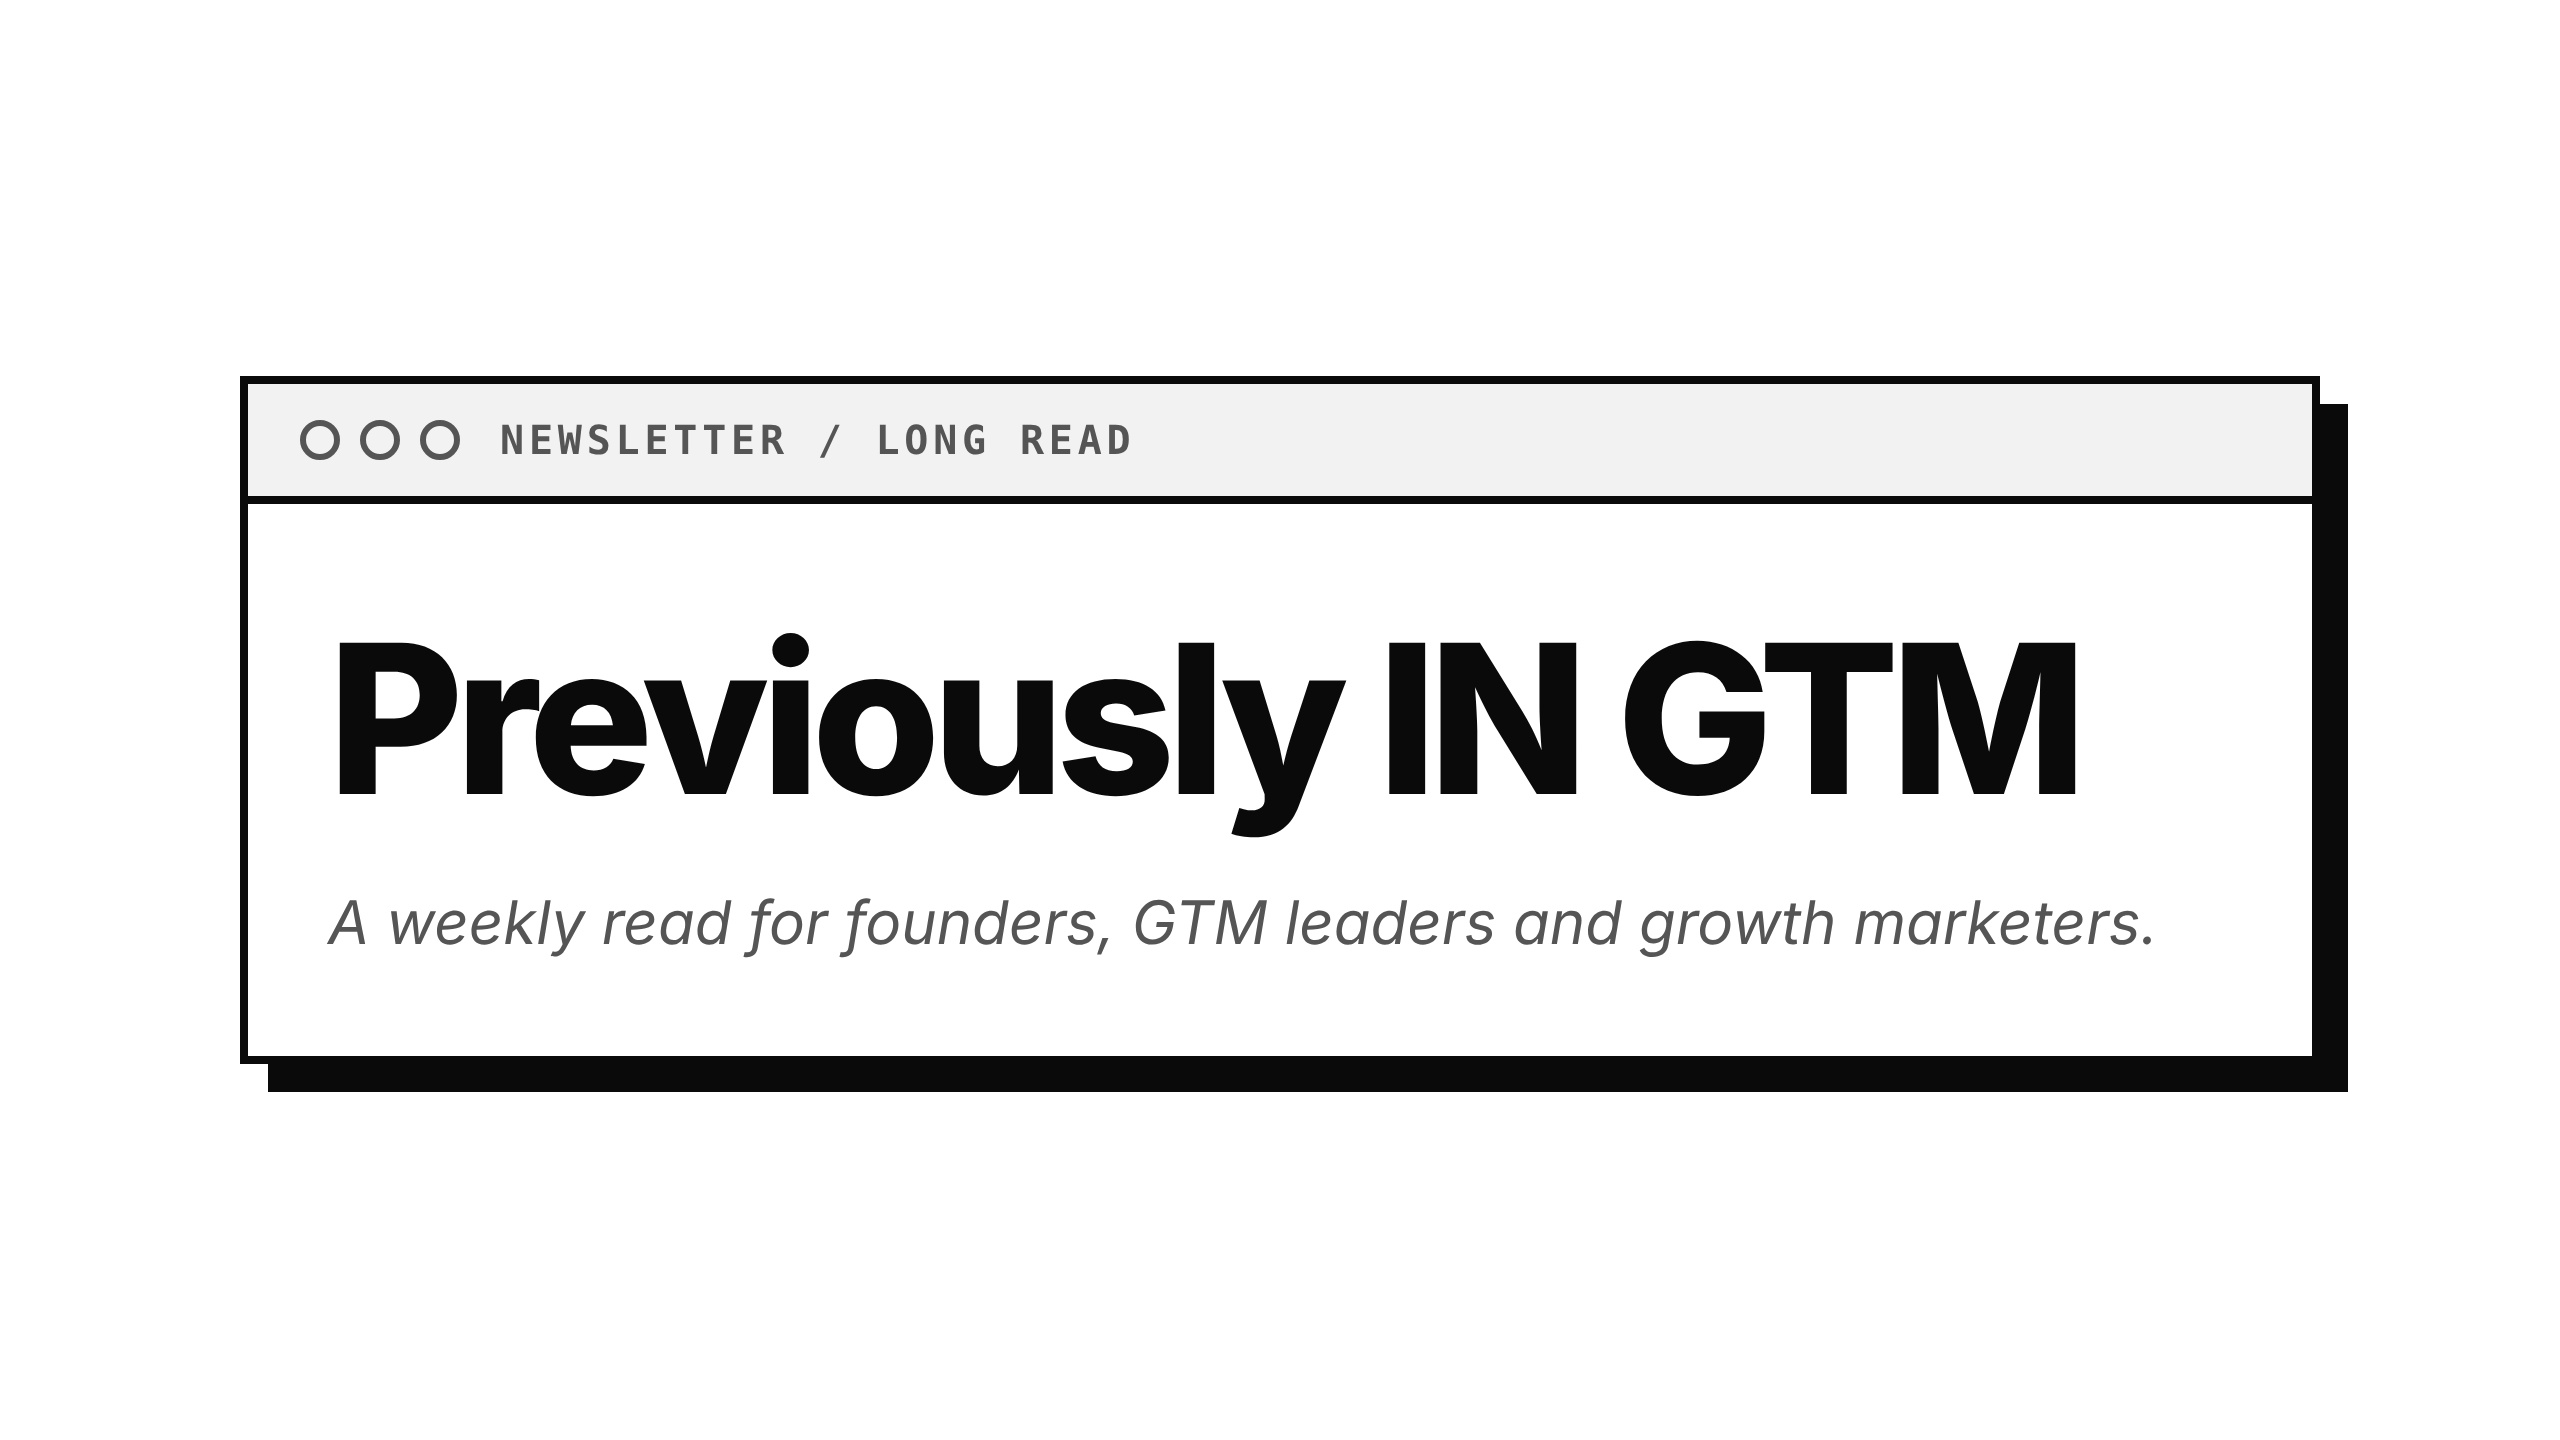
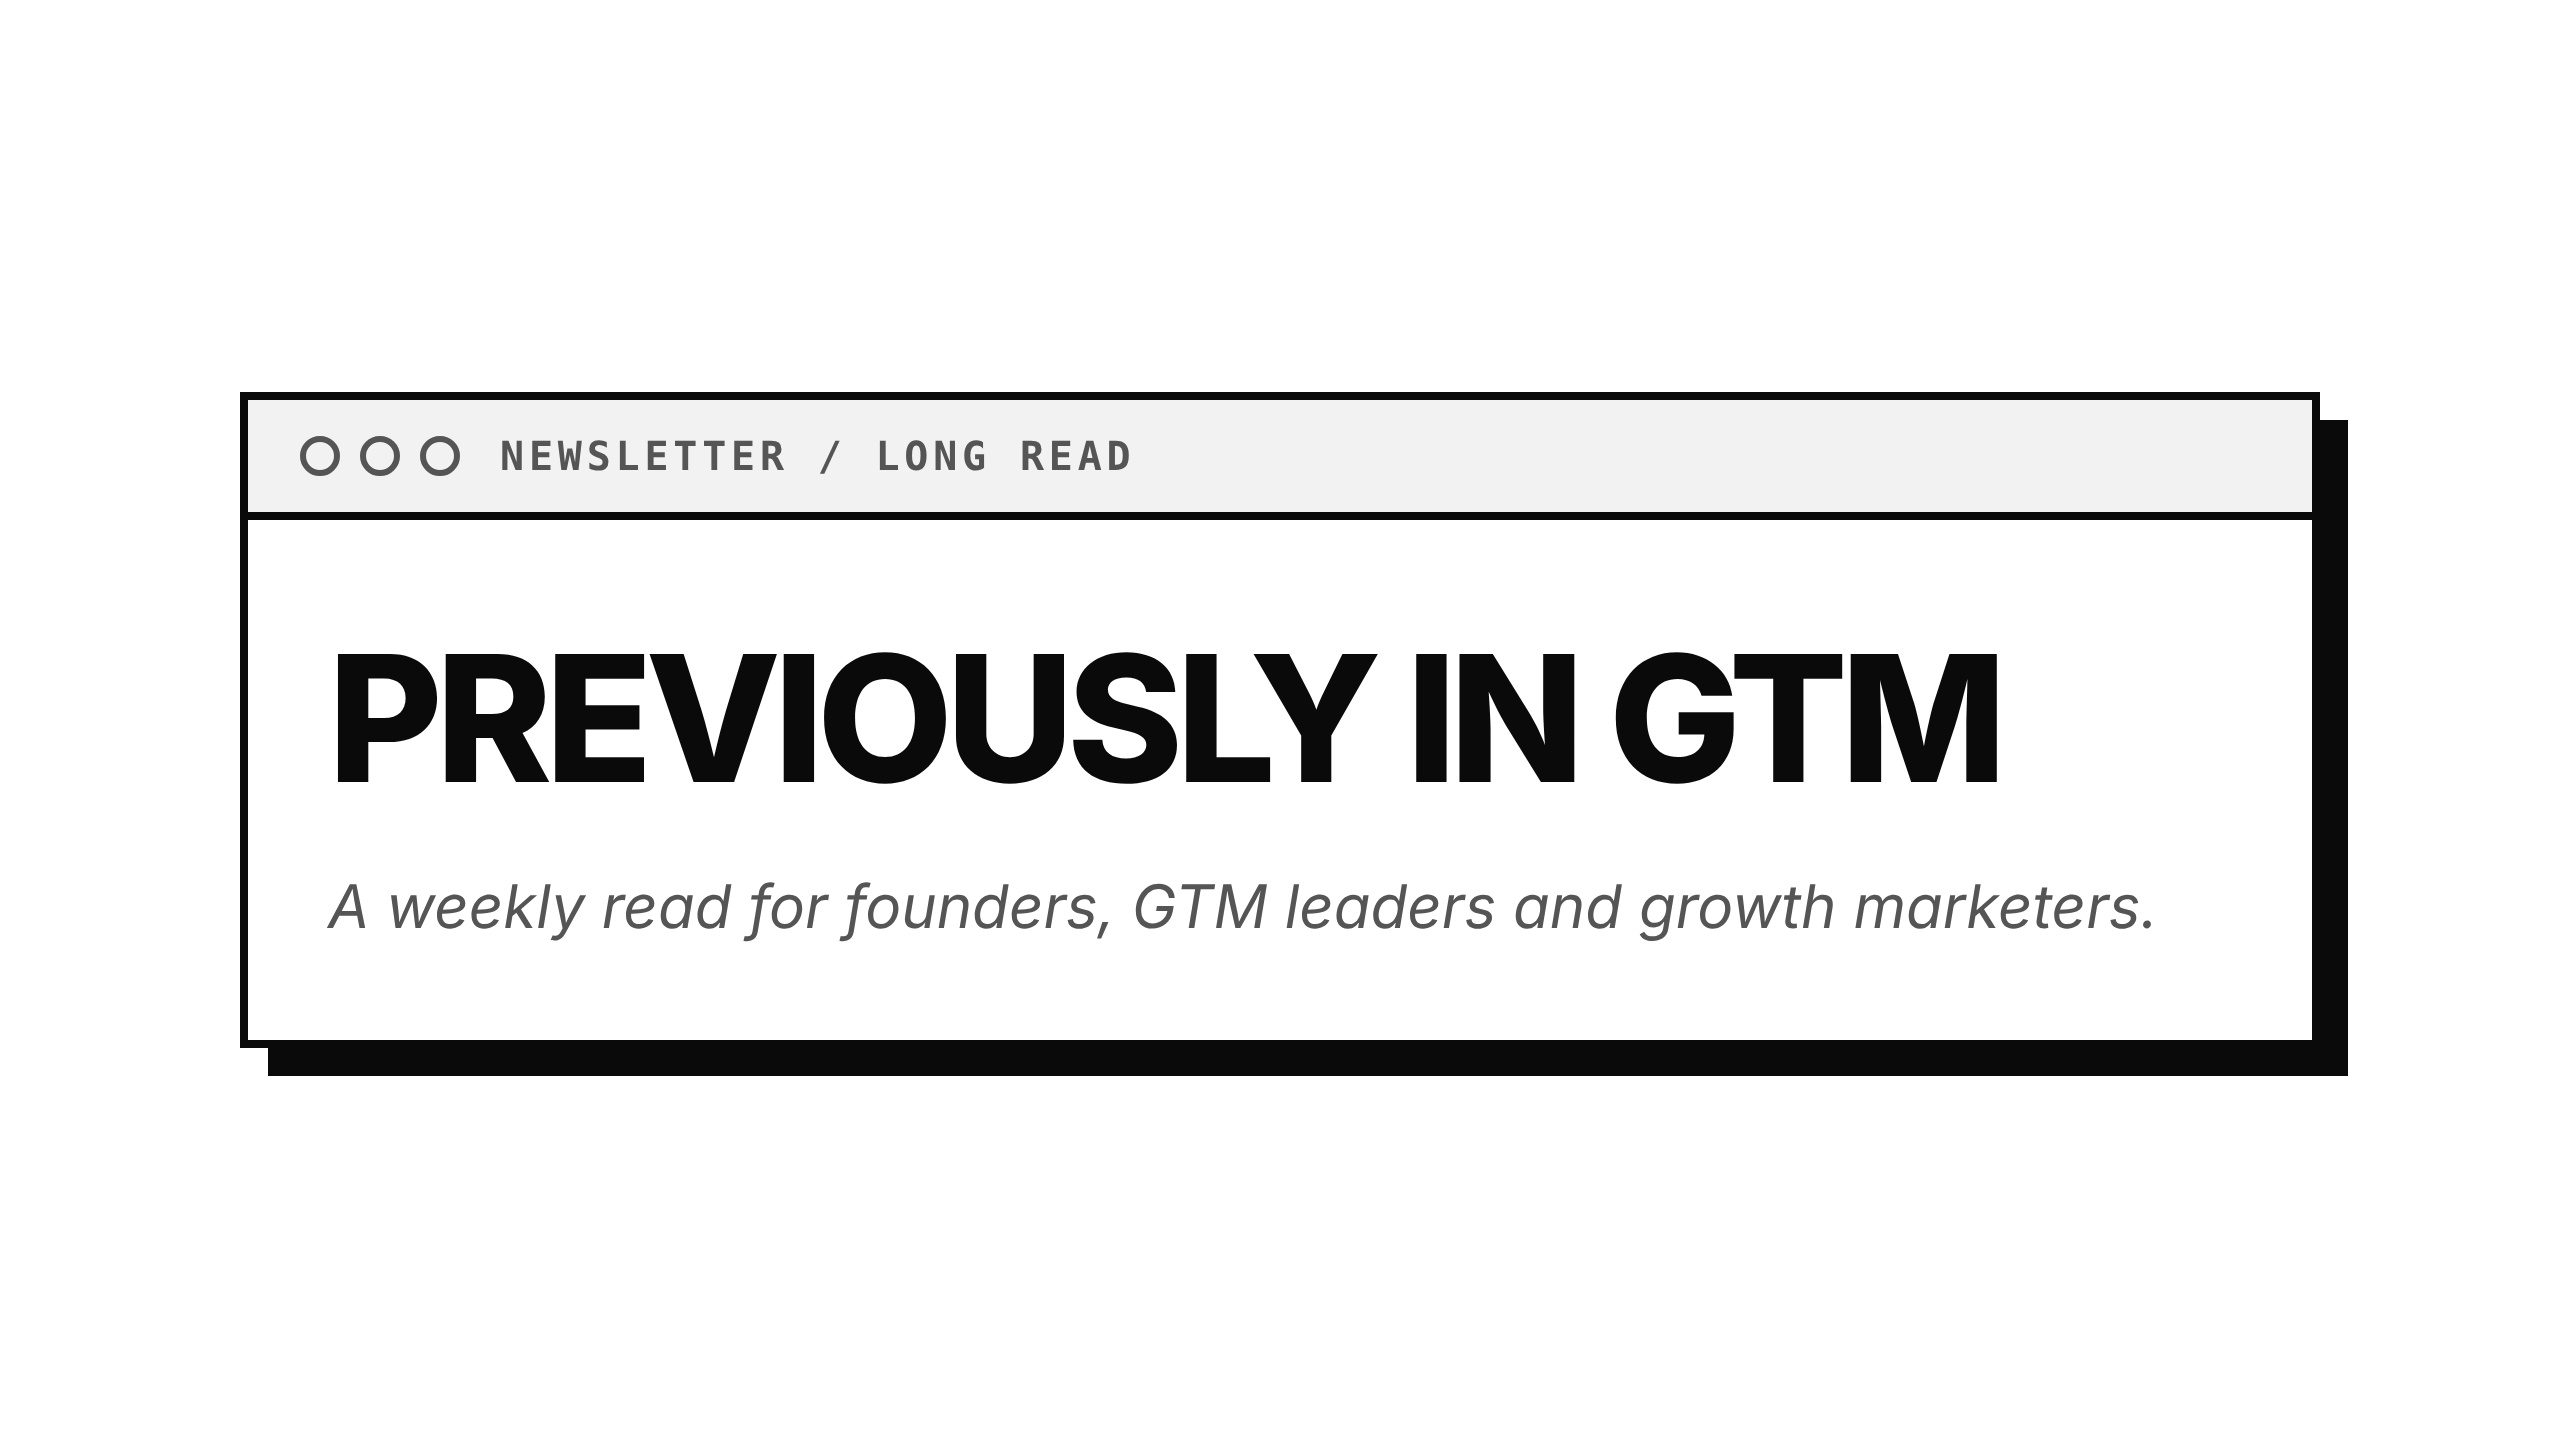
Set newsletter name to PREVIOUSLY IN GTM in capitals
Claude-Session: https://claude.ai/code/session_01V9oD64XzC6WYe1w4jhVD7r

diff --git a/newsletter-drafts/2026-10-23/design-bw/newsletter-bw.html b/newsletter-drafts/2026-10-23/design-bw/newsletter-bw.html
@@ -43,7 +43,7 @@ figure img{display:block;width:100%;height:auto;background:#fff}
 </style>
 <div class="wrap">
 <div class="mast"><div class="top"><span class="dots"><i></i><i></i><i></i></span><span class="mono">newsletter / long read</span></div>
-<div class="name">Previously IN GTM</div><div class="tag">A weekly read for founders, GTM leaders and growth marketers.</div></div>
+<div class="name">PREVIOUSLY IN GTM</div><div class="tag">A weekly read for founders, GTM leaders and growth marketers.</div></div>
 <h1 id="headline">Decide what your growth loop pays in before you build it</h1>
 <p class="stand">A long read on the one contract term, hidden inside every invite scheme, creator programme and bonus plan, that decides whether growth compounds or fills with noise.</p>
 <div class="by mono"><span>By Mohammad H. Rahman &nbsp;|&nbsp; 23 Oct 2026</span></div>
@@ -101,5 +101,5 @@ figure img{display:block;width:100%;height:auto;background:#fff}
 <p>Which growth programme in your company has a trigger you could not explain in one sentence?</p>
 <p>#GrowthMarketing #GTMStrategy #CreatorMarketing #RevOps #GTMEngineering #B2BGrowth #IncentiveDesign</p>
 </article>
-<div class="foot"><span class="mono">Previously IN GTM</span><span>By Mohammad H. Rahman</span></div>
+<div class="foot"><span class="mono">PREVIOUSLY IN GTM</span><span>By Mohammad H. Rahman</span></div>
 </div>

diff --git a/newsletter-drafts/2026-10-23/design-bw/images/src/newsletter-cover.html b/newsletter-drafts/2026-10-23/design-bw/images/src/newsletter-cover.html
@@ -5,7 +5,7 @@ body{font-family:Inter,Helvetica,Arial,sans-serif;background:#fff;color:#0A0A0A;
 .top{display:flex;align-items:center;gap:20px;padding:16px 26px;border-bottom:4px solid #0A0A0A;background:#F2F2F2;color:#555}
 .dots{display:flex;gap:10px}.dots i{width:20px;height:20px;border:3px solid #555;border-radius:50%;display:block}
 .mono{font-family:"DejaVu Sans Mono",Menlo,monospace;font-size:20px;font-weight:700;letter-spacing:.12em;text-transform:uppercase}
-.name{padding:56px 40px 32px;font-size:104px;white-space:nowrap;line-height:1;font-weight:800;letter-spacing:-.04em}
+.name{padding:56px 40px 32px;font-size:88px;white-space:nowrap;line-height:1;font-weight:800;letter-spacing:-.04em}
 .tag{padding:0 40px 48px;font-size:30px;font-style:italic;color:#555}
 </style></head><body><div class="mast"><div class="top"><div class="dots"><i></i><i></i><i></i></div><span class="mono">Newsletter / long read</span></div>
-<div class="name">Previously IN GTM</div><div class="tag">A weekly read for founders, GTM leaders and growth marketers.</div></div></body></html>
+<div class="name">PREVIOUSLY IN GTM</div><div class="tag">A weekly read for founders, GTM leaders and growth marketers.</div></div></body></html>

diff --git a/newsletter-drafts/2026-10-23/design-bw/images/src/cover.html b/newsletter-drafts/2026-10-23/design-bw/images/src/cover.html
@@ -14,7 +14,7 @@ h1{font-size:68px;line-height:1.08;font-weight:800;letter-spacing:-.025em;max-wi
 .sub{font-size:26px;line-height:1.4;color:var(--g4);margin-top:26px;max-width:880px}
 .by{position:absolute;left:56px;bottom:36px;right:56px;display:flex;justify-content:space-between;align-items:center;border-top:2px solid var(--g2);padding-top:18px}
 .by b{font-size:24px}
-</style></head><body><div class="win"><div class="bar"><div class="dots"><i></i><i></i><i></i></div><span class="mono" style="color:var(--g4)">Previously IN GTM / long read</span></div>
+</style></head><body><div class="win"><div class="bar"><div class="dots"><i></i><i></i><i></i></div><span class="mono" style="color:var(--g4)">PREVIOUSLY IN GTM / long read</span></div>
 <div class="in"><h1>Decide what your growth loop pays in before you build it</h1>
 <div class="sub">The contract term hidden inside every invite scheme, creator programme and bonus plan.</div>
 <div class="by"><b>Mohammad H. Rahman</b><span class="mono" style="color:var(--g3)">Currency / Trigger / Clock / Ceiling</span></div></div></div>
